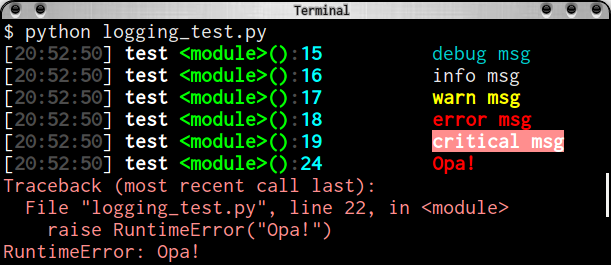
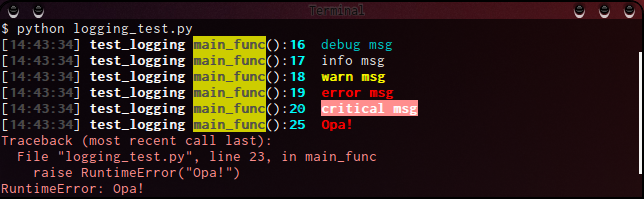
updates README

diff --git a/setup.py b/setup.py
@@ -36,6 +36,11 @@ Programming Language :: Python :: 2.7
 Programming Language :: Python :: 3.2
 Programming Language :: Python :: 3.3
 Programming Language :: Python :: Implementation :: PyPy
+Operating System :: POSIX :: Linux
+Operating System :: POSIX :: BSD
+Operating System :: Unix
+Operating System :: MacOS
+Operating System :: Microsoft :: Windows
 Intended Audience :: Developers
 Topic :: Software Development :: Debuggers
 Topic :: System :: Logging

diff --git a/README.rst b/README.rst
@@ -5,9 +5,8 @@ rainbow_logging_handler
 
 Ultimate Python colorized logger.
 
-Usage
------
-
+Quick Usage
+-----------
 .. image:: http://github.com/laysakura/rainbow_logging_handler/raw/master/doc/screenshot.png
 
 This script runs like above screenshot.
@@ -18,15 +17,16 @@ This script runs like above screenshot.
     import logging
     from rainbow_logging_handler import RainbowLoggingHandler
 
-    if __name__ == '__main__':
-        root_logger = logging.getLogger()
-        root_logger.setLevel(logging.DEBUG)
+    def main_func():
+        # setup `logging` module
+        logger = logging.getLogger('test_logging')
+        logger.setLevel(logging.DEBUG)
+        formatter = logging.Formatter("[%(asctime)s] %(name)s %(funcName)s():%(lineno)d\t%(message)s")  # same as default
 
-        handler = RainbowLoggingHandler(sys.stderr)
-        formatter = logging.Formatter("%(asctime)s - %(name)s - %(levelname)s - %(message)s")
+        # setup `RainbowLoggingHandler`
+        handler = RainbowLoggingHandler(sys.stderr, color_funcName=('black', 'yellow', True))
         handler.setFormatter(formatter)
-        root_logger.addHandler(handler)
-        logger = logging.getLogger('test')
+        logger.addHandler(handler)
 
         logger.debug("debug msg")
         logger.info("info msg")
@@ -39,6 +39,44 @@ This script runs like above screenshot.
         except Exception as e:
             logger.exception(e)
 
+    if __name__ == '__main__':
+        main_func()
+
+
+Features
+--------
+
+Column-by-column colored log
+############################
+As apparent from above screenshot, each column of logs are differently colored.
+Even default coloring should make log reading easier.
+
+User custom color
+#################
+Every column colors are **customizable**.
+
+.. code-block:: python
+
+    formatter = logging.Formatter('%(pathname)s [%(module)s] - %(funcName)s:L%(lineno)d : %(message)s')
+    handler   = RainbowLoggingHandler(
+        sys.stderr,
+        # Customizing each column's color
+        color_pathname=('black', 'red'  , True), color_module=('yellow', None, False),
+        color_funcName=('blue' , 'white', True), color_lineno=('green' , None, False),
+    )
+    handler.setFormatter(formatter)
+    logger.addHandler(handler)
+    logger.info("hello custom world")
+
+Above code produces output like this.
+
+.. image:: http://github.com/laysakura/rainbow_logging_handler/raw/master/doc/screenshot-custom-color.png
+
+High portability
+################
+Linux, BSD, Mac OS, and Windows are supposed to be supported.
+
+Runs with both Python 2.6 or higher & Python 3.2 or higher.
 
 Install
 -------
@@ -58,9 +96,11 @@ Install from Github repo
     $ ./setup.py install
 
 Author
-======
+------
 
 Mikko Ohtamaa <mikko@opensourcehacker.com>, Sho Nakatani <lay.sakura@gmail.com>
+
+And special thanks to [10sr](https://github.com/10sr) for advice.
 
 License
 -------
